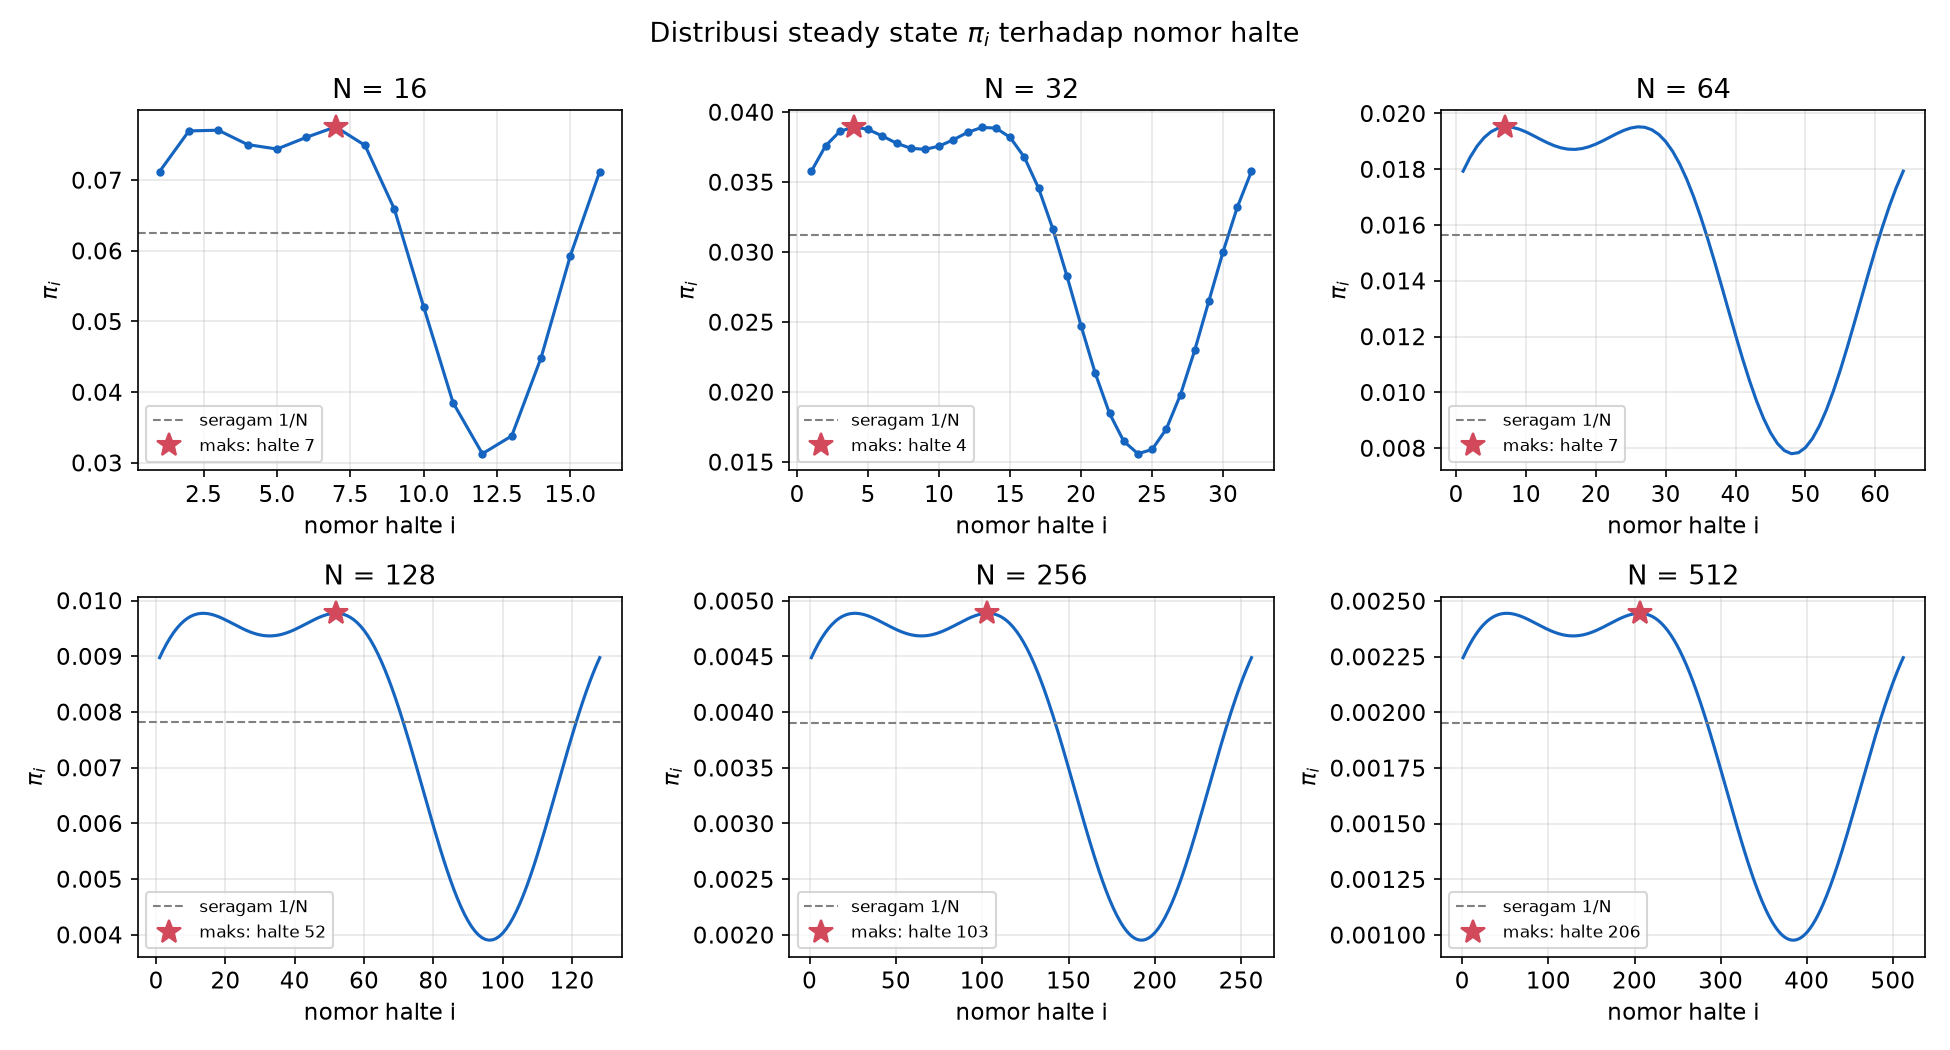
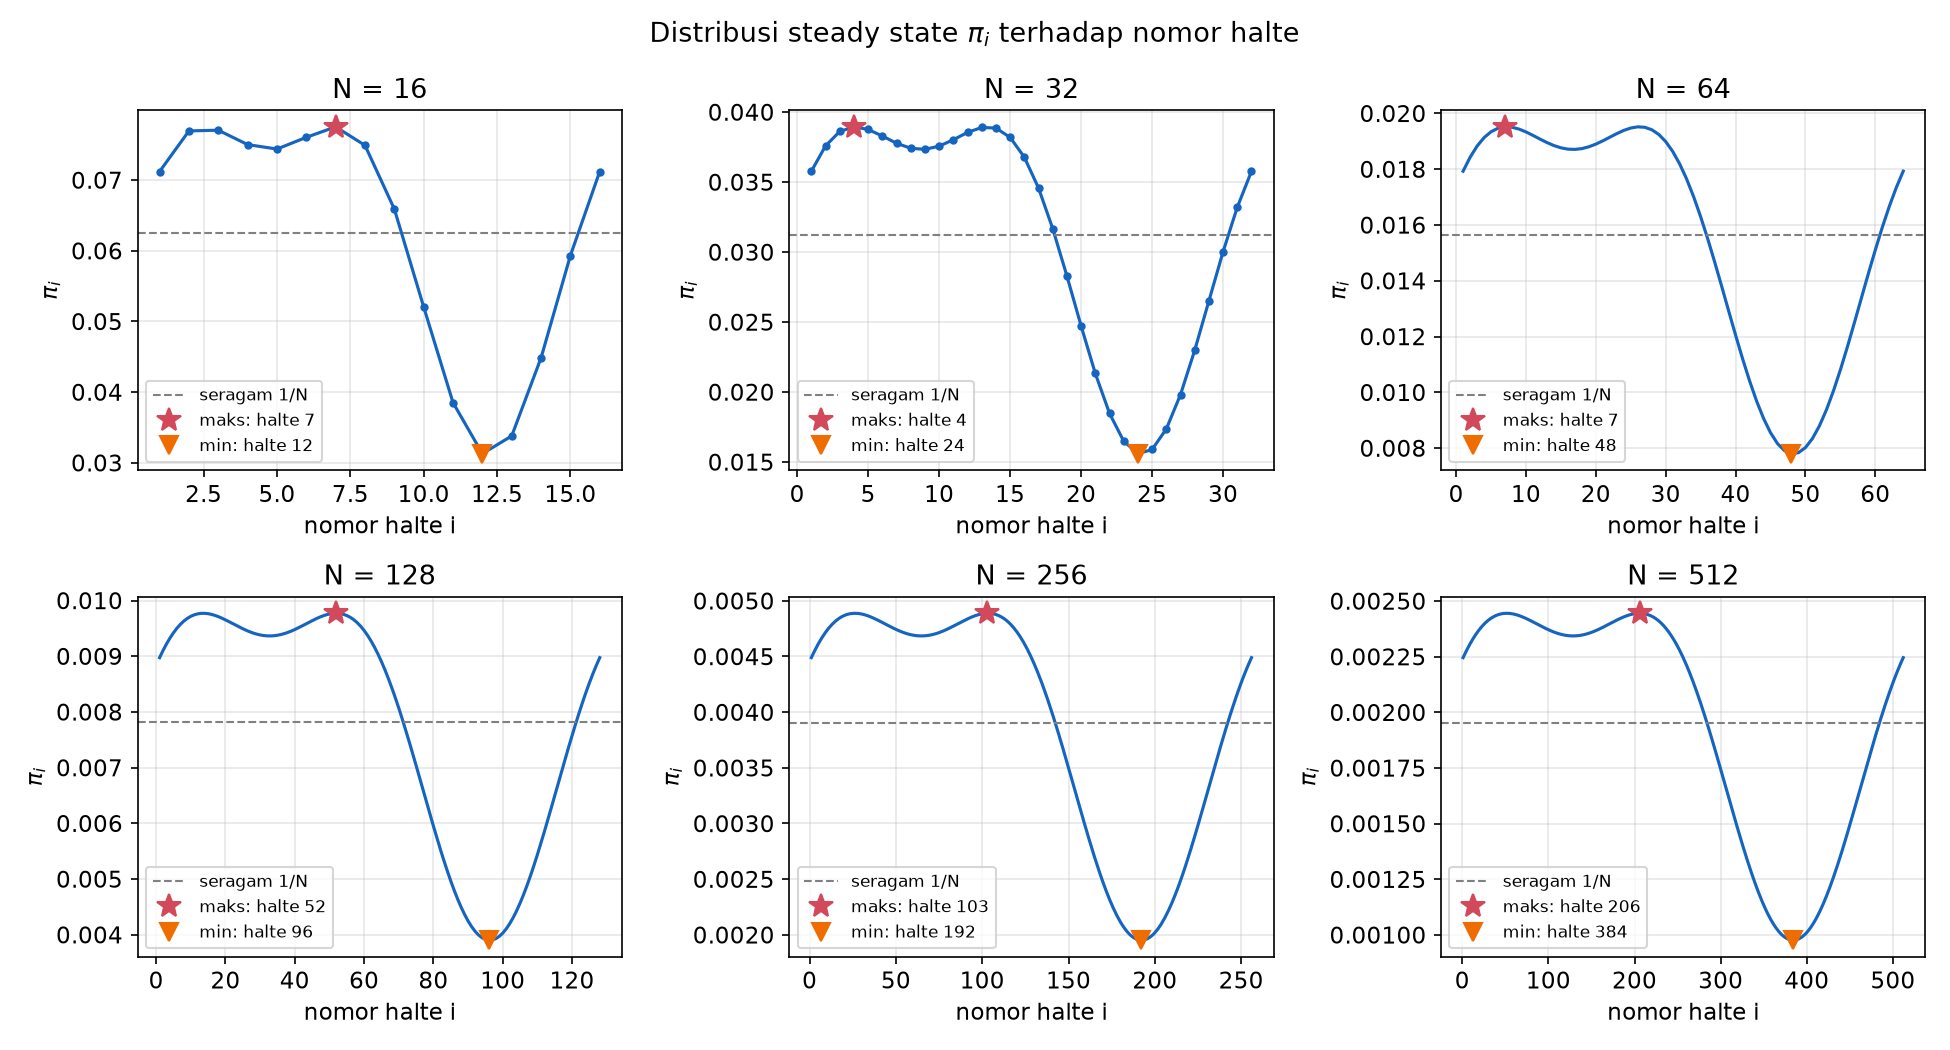
feat: Added drift plotting and added min markers to 07_pi_vs_halte

diff --git a/05_make_plots.py b/05_make_plots.py
@@ -141,6 +141,8 @@ for ax, n in zip(axes.ravel(), N):
     ax.axhline(1 / n, color="gray", linestyle="--", linewidth=1, label="seragam 1/N")
     i = int(np.argmax(pi))
     ax.plot(i + 1, pi[i], "*", color=COLOR_DENSE, markersize=12, label=f"maks: halte {i + 1}")
+    j = int(np.argmin(pi))
+    ax.plot(j + 1, pi[j], "v", color="#ef6c00", markersize=9, label=f"min: halte {j + 1}")
     ax.set_title(f"N = {n}")
     ax.set_xlabel("nomor halte i")
     ax.set_ylabel(r"$\pi_i$")
@@ -164,6 +166,71 @@ ax.legend(fontsize=9)
 fig.tight_layout()
 fig.savefig("plots/08_profil_pi_ternormalisasi.png")
 plt.close(fig)
+
+# 9. (poin viii, penjelasan) pi_i dan drift per halte untuk N = 512
+n_focus = 512
+T_focus = np.loadtxt(f"data/T_{n_focus}.csv", delimiter=",")
+pi_f = pis[f"pi_banded_{n_focus}"]
+idx = np.arange(1, n_focus + 1)
+drift = T_focus @ idx - idx   # drift_i = sum_j T_ij * j - i
+
+i_max = int(np.argmax(pi_f)) + 1
+i_min = int(np.argmin(pi_f)) + 1
+
+# drift di bagian dalam koridor (tanpa 10 halte di tiap ujung), skala diperbesar
+inner = slice(10, n_focus - 10)
+fig, ax = plt.subplots(figsize=(9, 3.5))
+ax.plot(idx[inner], drift[inner], color=COLOR_BAND)
+ax.axhline(0, color="gray", linestyle="--")
+ax.axvline(i_max, color=COLOR_DENSE, linestyle=":", label=f"maks: halte {i_max}")
+ax.axvline(i_min, color="#ef6c00", linestyle=":", label=f"min: halte {i_min}")
+ax.set_xlabel("nomor halte i")
+ax.set_ylabel("drift")
+ax.set_title("Drift di bagian dalam koridor (N = 512)")
+ax.legend(fontsize=8)
+fig.tight_layout()
+fig.savefig("plots/10_drift_bagian_dalam.png")
+plt.close(fig)
+
+# rata-rata drift 30 halte di kiri dan kanan titik maks dan min
+def win(i, w=30):
+    return drift[i - 1 - w:i - 1].mean(), drift[i:i + w].mean()
+print("sekitar maks (kiri, kanan):", win(i_max))
+print("sekitar min  (kiri, kanan):", win(i_min))
+
+# variansi lompatan lokal dan hasil kali pi * variansi
+var = np.array([T_focus[i] @ (idx - (i + 1)) ** 2 for i in range(n_focus)])
+prod = (pi_f * var)[10:-10]
+print("pi*variansi di bagian dalam: rata-rata", prod.mean(), "simpangan relatif", prod.std() / prod.mean())
+
+fig, ax1 = plt.subplots(figsize=(9, 4.5))
+l1, = ax1.plot(idx, pi_f, color="#1565c0", linewidth=1.5, label=r"$\pi_i$")
+ax1.axvline(i_max, color=COLOR_DENSE, linestyle=":", linewidth=1.2, label=f"maks: halte {i_max}")
+ax1.axvline(i_min, color="#ef6c00", linestyle=":", linewidth=1.2, label=f"min: halte {i_min}")
+ax1.set_xlabel("nomor halte i")
+ax1.set_ylabel(r"$\pi_i$", color="#1565c0")
+
+ax2 = ax1.twinx()
+ax2.grid(False)
+l2, = ax2.plot(idx, drift, color=COLOR_BAND, linewidth=1, alpha=0.85, label="drift")
+ax2.axhline(0, color="gray", linestyle="--", linewidth=1)
+ax2.set_ylabel(r"drift $=\sum_j T_{ij}\,j - i$", color=COLOR_BAND)
+
+handles = [l1, l2] + ax1.lines[1:3]
+ax1.legend(handles=handles, labels=[h.get_label() for h in handles], fontsize=8, loc="upper right")
+ax1.set_title(f"Distribusi steady state dan drift per halte (N = {n_focus})")
+fig.tight_layout()
+fig.savefig("plots/09_pi_dan_drift_N512.png")
+plt.close(fig)
+
+# cek hipotesis: di mana drift berganti tanda
+sb = np.signbit(drift)
+cross = np.where(sb[:-1] != sb[1:])[0]
+cross = cross[(cross > 10) & (cross < n_focus - 10)]   # buang lonjakan di ujung
+plus_to_minus = [int(i) + 1 for i in cross if not sb[i]]
+minus_to_plus = [int(i) + 1 for i in cross if sb[i]]
+print("+ ke -:", plus_to_minus)
+print("- ke +:", minus_to_plus)
 
 print("Semua grafik tersimpan di folder plots/")
 for f in sorted(__import__("os").listdir("plots")):
